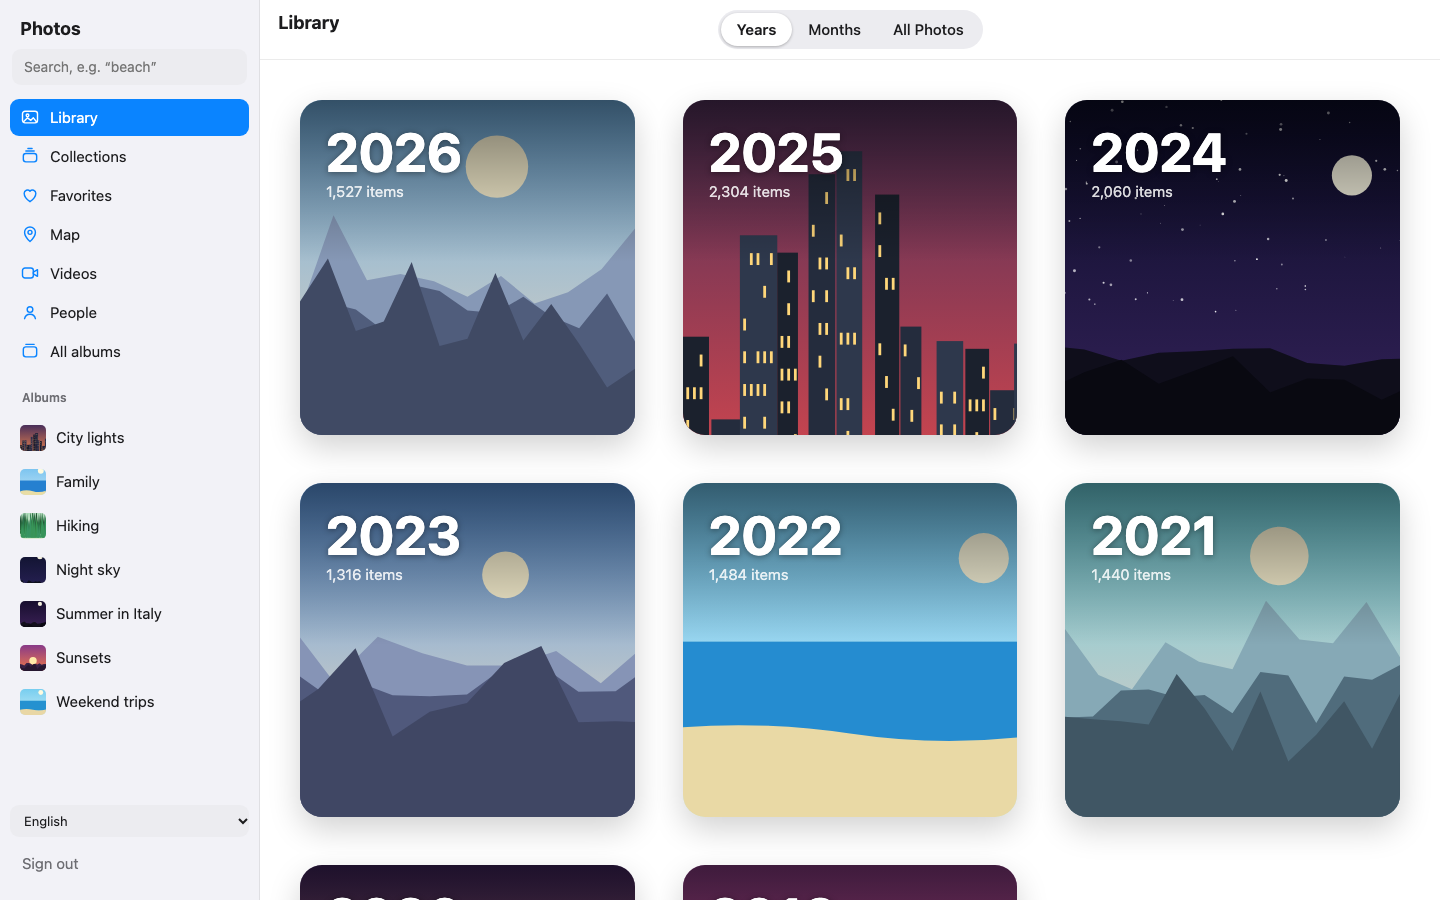
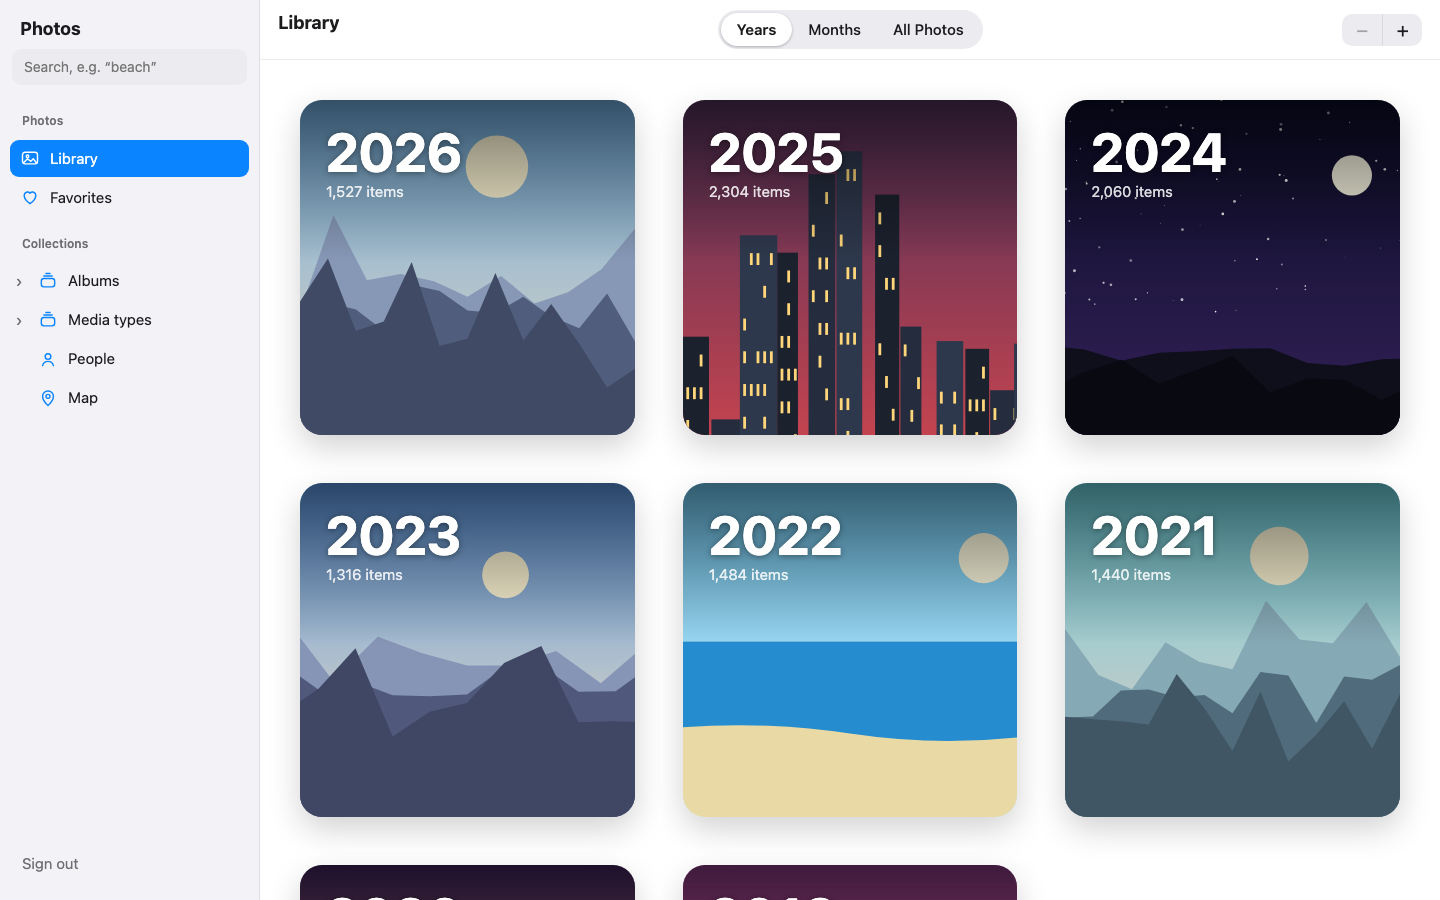
Apple-style navigation: grouped sidebar, floating mobile tab bar, pinch/zoom steps through years, months and all photos

Changed region(s): [[0.0, 0.0933, 0.1875, 0.3111], [0.0, 0.4356, 0.0938, 0.8089], [0.0312, 0.3422, 0.0938, 0.4044]]

diff --git a/public/style.css b/public/style.css
@@ -59,20 +59,25 @@ main{position:relative;overflow-y:auto;height:100%}
 #vPrev{left:16px}#vNext{right:16px}
 #vInfo{position:absolute;left:0;right:0;bottom:0;padding:12px 18px;color:#fff;background:linear-gradient(transparent,#000a);display:flex;justify-content:space-between;gap:12px;font-size:13px}
 #vInfo a{color:#fff}
+.tabbar,.search-btn{display:none}
 @media (max-width:720px){
-  .app{grid-template-columns:1fr;grid-template-rows:1fr auto}
-  aside{order:2;flex-direction:row;padding:6px;border:0;border-top:1px solid var(--line);overflow:hidden}
-  .side-top,.logout,.side-h,.side-albums{display:none}
-  aside{padding-bottom:calc(6px + env(safe-area-inset-bottom))}
-  #mainNav a,.search-btn{min-width:0;height:44px;display:flex;align-items:center;justify-content:center;border-radius:12px}
-  #mainNav .search-btn{display:flex;flex:1;background:none;border:0;color:var(--dim)}
-  .search-btn svg{width:24px;height:24px;fill:none;stroke:currentColor;stroke-width:1.8;stroke-linecap:round;stroke-linejoin:round}
-  #searchForm{display:none;position:fixed;left:12px;right:12px;bottom:calc(64px + env(safe-area-inset-bottom));z-index:30;padding:8px;border-radius:14px;background:var(--bar-bg);backdrop-filter:blur(20px);-webkit-backdrop-filter:blur(20px);box-shadow:0 4px 24px #0004}
-  aside.search-open #searchForm{display:block}
+  .app{grid-template-columns:1fr}
+  aside{position:static;padding:0;border:0;height:0;overflow:visible;background:none}
+  aside>:not(#searchForm){display:none!important}
+  #content{padding-bottom:calc(96px + env(safe-area-inset-bottom))}
+  main{touch-action:pan-x pan-y}
+  .tabbar{display:flex;flex-direction:row;position:fixed;z-index:20;left:16px;right:88px;bottom:calc(12px + env(safe-area-inset-bottom));height:62px;padding:5px;gap:4px;border-radius:32px;background:var(--bar-bg);backdrop-filter:blur(24px) saturate(1.6);-webkit-backdrop-filter:blur(24px) saturate(1.6);box-shadow:0 2px 20px #0003,inset 0 0 0 1px var(--line)}
+  .tabbar a{flex:1;display:flex;flex-direction:column;align-items:center;justify-content:center;gap:2px;border-radius:28px;color:var(--text);text-decoration:none;font-size:11px;font-weight:600}
+  .tabbar a svg{width:26px;height:26px;fill:none;stroke:currentColor;stroke-width:1.7;stroke-linecap:round;stroke-linejoin:round}
+  #tabbar a.active{background:var(--bg2);color:var(--accent)}
+  #tabbar a.active svg{stroke:var(--accent)}
+  .search-btn{display:flex;align-items:center;justify-content:center;position:fixed;z-index:20;right:16px;bottom:calc(12px + env(safe-area-inset-bottom));width:62px;height:62px;padding:0;border-radius:50%;background:var(--bar-bg);color:var(--text);backdrop-filter:blur(24px) saturate(1.6);-webkit-backdrop-filter:blur(24px) saturate(1.6);box-shadow:0 2px 20px #0003,inset 0 0 0 1px var(--line)}
+  .search-btn svg{width:28px;height:28px;fill:none;stroke:currentColor;stroke-width:1.8;stroke-linecap:round;stroke-linejoin:round}
+  #searchForm{display:none;position:fixed;left:16px;right:16px;bottom:calc(86px + env(safe-area-inset-bottom));z-index:30;padding:8px;border-radius:18px;background:var(--bar-bg);backdrop-filter:blur(20px);-webkit-backdrop-filter:blur(20px);box-shadow:0 4px 24px #0004}
+  aside.search-open #searchForm{display:block!important}
   #searchInput{font-size:16px}
-  #mainNav{flex-direction:row;width:100%}#mainNav a{flex:1;justify-content:center;font-size:0;gap:0}
   .topbar{grid-template-columns:1fr auto;padding:0 12px}.seg{grid-column:1/-1;grid-row:2;justify-self:center}.topbar{height:auto;min-height:var(--bar);padding-bottom:8px}
-  .zoom{display:none}
+  .viewer ~ .tabbar,body:has(#viewer:not(.hidden)) .tabbar,body:has(#viewer:not(.hidden)) .search-btn{display:none}
 }
 .overview{padding:0 0 120px}
 .ov-year{position:sticky;top:var(--bar);z-index:5;padding:10px 18px;font-weight:700;font-size:22px;background:var(--bar-bg);backdrop-filter:blur(20px);-webkit-backdrop-filter:blur(20px)}
@@ -132,7 +137,7 @@ main{position:relative;overflow-y:auto;height:100%}
 .v-panel dl{margin:14px 0 0;display:grid;grid-template-columns:auto 1fr;gap:6px 14px;font-size:14px}
 .v-panel dt{color:var(--dim)}.v-panel dd{margin:0;word-break:break-word}
 .v-panel a{color:var(--accent)}
-@media (max-width:720px){.selbar{bottom:70px}.tb-right .pill{padding:6px 12px}}
+@media (max-width:720px){.tb-right .pill{padding:6px 12px}}
 
 /* ---- Blurred placeholder (ThumbHash) ---- */
 .tile{background-size:cover;background-position:center}
@@ -183,10 +188,23 @@ main{position:relative;overflow-y:auto;height:100%}
 /* ---- Language picker ---- */
 .lang-select{background:var(--bg2);color:var(--text);border:0;border-radius:9px;padding:7px 10px;font:inherit;font-size:13px;width:100%}
 .logout{margin-top:auto}
-.search-btn{display:none}
 .login .lang-select{margin-top:6px}
 [dir="rtl"] .tb-right{justify-self:start}
 
 /* keep the viewer toolbar visible next to the open info panel */
 .viewer:has(#vPanel:not(.hidden)) .v-tools{right:calc(min(340px,100vw) + 16px)}
 .viewer:has(#vPanel:not(.hidden)) #vInfo{right:min(340px,100vw)}
+
+/* Sidebar groups (Apple Photos web style) */
+.side-h-link{display:block;text-decoration:none}
+.side-h-link.active{color:var(--accent)}
+.navrow{display:flex;align-items:center;gap:0}
+.navrow>a,.navrow .rowlabel{flex:1;min-width:0}
+.rowlabel{display:flex;gap:10px;align-items:center;padding:8px 10px;border-radius:9px;background:none;color:var(--text);text-align:left;font:inherit}
+.chev{width:18px;flex:none;background:none;color:var(--dim);font-size:16px;line-height:1;padding:0;transition:transform .15s}
+.chev[aria-expanded="true"]{transform:rotate(90deg)}
+.navrow:not(:has(.chev))>a{margin-left:18px}
+nav.sub{padding-left:18px}
+nav.sub.hidden{display:none}
+nav .rowlabel svg{width:20px;height:20px;flex:none;fill:none;stroke:var(--accent);stroke-width:1.7;stroke-linecap:round;stroke-linejoin:round}
+@media (max-width:720px){.selbar{bottom:calc(88px + env(safe-area-inset-bottom))}}

diff --git a/public/app.js b/public/app.js
@@ -393,7 +393,7 @@ function resetView() {
 }
 function syncControls() {
   document.querySelectorAll("#seg button").forEach((b) => b.classList.toggle("active", b.dataset.mode === state.mode));
-  $("#zOut").disabled = state.zoom <= 0; $("#zIn").disabled = state.zoom >= ZOOMS.length - 1;
+  $("#zOut").disabled = level() <= 0; $("#zIn").disabled = level() >= maxLevel();
 }
 function showFeed(filters, title, { back = false, seg = false, feedOpts, noDate = false, makeFeed } = {}) {
   resetView();
@@ -404,10 +404,18 @@ function showFeed(filters, title, { back = false, seg = false, feedOpts, noDate 
   state.feed = makeFeed ? makeFeed() : new Feed(filters, feedOpts);
   loadMore();
 }
+// Zoom steps. In the library they run through Years -> Months -> All Photos (small ... large);
+// everywhere else only through the grid sizes.
+function level() { return state.view === "library" ? (state.mode === "years" ? 0 : state.mode === "months" ? 1 : 2 + state.zoom) : state.zoom; }
+function maxLevel() { return state.view === "library" ? 1 + ZOOMS.length : ZOOMS.length - 1; }
 function zoom(d) {
-  const z = Math.min(ZOOMS.length - 1, Math.max(0, state.zoom + d));
-  if (z === state.zoom) return;
-  state.zoom = z; store.set("zoom2", z); syncControls(); gridRelayout();
+  const lib = state.view === "library", cur = level(), n = Math.min(maxLevel(), Math.max(0, cur + d));
+  if (n === cur) return;
+  if (!lib) { state.zoom = n; store.set("zoom2", n); syncControls(); gridRelayout(); return; }
+  const mode = n === 0 ? "years" : n === 1 ? "months" : "all", z = n >= 2 ? n - 2 : state.zoom;
+  const modeChanged = mode !== state.mode;
+  state.mode = mode; state.zoom = z; store.set("mode", mode); store.set("zoom2", z);
+  if (modeChanged) showLibrary(); else { syncControls(); gridRelayout(); }
 }
 $("#zOut").onclick = () => zoom(-1); $("#zIn").onclick = () => zoom(1);
 
@@ -495,7 +503,7 @@ function showLibrary(restore) {
     showFeed({ visibility: "timeline" }, tr("nav.library"), { seg: true, makeFeed: () => libraryFeed(null, { visibility: "timeline" }) }); state.view = "library";
   } else {
     resetView(); state.view = "library";
-    setHeader(tr("nav.library"), { seg: true }); syncControls();
+    setHeader(tr("nav.library"), { seg: true, zoom: true }); syncControls();
     showOverview(restore);
   }
 }
@@ -744,10 +752,23 @@ function showBBox(bbox) {
 // ---------- Routing ----------
 function markActive() {
   const [, name = "photos", id] = location.hash.split("/");
-  const main = { album: "", search: "", month: "photos", person: "people", bbox: "map", place: "collections", live: "collections" }[name] ?? name;
-  document.querySelectorAll("#mainNav a").forEach((a) => a.classList.toggle("active", a.dataset.route === main));
+  const main = { month: "photos", person: "people", bbox: "map", place: "collections" }[name] ?? name;
+  document.querySelectorAll("aside a[data-route]").forEach((a) => a.classList.toggle("active", a.dataset.route === main));
   document.querySelectorAll("#sideAlbums a").forEach((a) => a.classList.toggle("active", name === "album" && a.dataset.albumId === id));
+  const tab = ["photos", "month", "favorites", "search"].includes(name) ? "photos" : "collections";
+  document.querySelectorAll("#tabbar a").forEach((a) => a.classList.toggle("active", a.dataset.tab === tab));
+  if (name === "album") setGroup("albums", true);
+  if (name === "videos" || name === "live") setGroup("media", true);
 }
+// Collapsible sidebar groups (Albums, Media types), remembered per browser.
+function setGroup(key, open) {
+  const sub = key === "albums" ? $("#sideAlbums") : $("#mediaNav");
+  sub.classList.toggle("hidden", !open);
+  document.querySelector(`.chev[data-toggle="${key}"]`).setAttribute("aria-expanded", String(open));
+  store.set("group." + key, open);
+}
+document.querySelectorAll("[data-toggle]").forEach((b) => b.addEventListener("click", () => setGroup(b.dataset.toggle, b.parentElement.querySelector(".chev").getAttribute("aria-expanded") !== "true")));
+["albums", "media"].forEach((k) => setGroup(k, store.get("group." + k, false)));
 let lastName = "";
 function route() {
   const [, name = "photos", id, title] = location.hash.split("/");
@@ -785,6 +806,26 @@ $("#searchForm").addEventListener("submit", (e) => {
   e.preventDefault(); const q = $("#searchInput").value.trim();
   if (q) location.hash = "#/search/" + encodeURIComponent(q);
 });
+
+// Pinch (touch) or ctrl+wheel (trackpad pinch) on the library changes the zoom step.
+{
+  let d0 = 0, busy = false;
+  const dist = (t) => Math.hypot(t[0].clientX - t[1].clientX, t[0].clientY - t[1].clientY);
+  const m = $("#main");
+  m.addEventListener("touchstart", (e) => { if (e.touches.length === 2) d0 = dist(e.touches); }, { passive: true });
+  m.addEventListener("touchmove", (e) => {
+    if (e.touches.length !== 2 || !d0 || !$("#viewer").classList.contains("hidden")) return;
+    const r = dist(e.touches) / d0;
+    if (r > 1.3) { zoom(1); d0 = dist(e.touches); } else if (r < 0.77) { zoom(-1); d0 = dist(e.touches); }
+  }, { passive: true });
+  m.addEventListener("touchend", () => { d0 = 0; }, { passive: true });
+  m.addEventListener("wheel", (e) => {
+    if (!e.ctrlKey || state.view === "map" || !$("#zoom") || $("#zoom").classList.contains("hidden")) return;
+    e.preventDefault();
+    if (busy) return; busy = true; setTimeout(() => (busy = false), 350);
+    zoom(e.deltaY < 0 ? 1 : -1);
+  }, { passive: false });
+}
 
 // ---------- Viewer ----------
 let vIndex = -1;

diff --git a/public/index.html b/public/index.html
@@ -31,18 +31,23 @@
     <form id="searchForm" class="search" role="search">
       <input id="searchInput" type="search" data-i18n-placeholder="search.placeholder" data-i18n-aria-label="search.aria" placeholder="Search" autocomplete="off">
     </form>
+    <div class="side-h" data-i18n="nav.group.photos">Photos</div>
     <nav id="mainNav">
       <a href="#/photos" data-route="photos"><svg viewBox="0 0 24 24"><rect x="3" y="5" width="18" height="14" rx="3"/><circle cx="9" cy="10" r="1.6"/><path d="M4 18l5-5 4 3 3-3 4 5"/></svg><span data-i18n="nav.library">Library</span></a>
-      <a href="#/collections" data-route="collections"><svg viewBox="0 0 24 24"><rect x="4" y="9" width="16" height="10" rx="3"/><path d="M7 6h10M9.5 3h5"/></svg><span data-i18n="nav.collections">Collections</span></a>
       <a href="#/favorites" data-route="favorites"><svg viewBox="0 0 24 24"><path d="M12 20s-7-4.6-7-10a4 4 0 017-2.6A4 4 0 0119 10c0 5.4-7 10-7 10z"/></svg><span data-i18n="nav.favorites">Favorites</span></a>
-      <a href="#/map" data-route="map"><svg viewBox="0 0 24 24"><path d="M12 21s-6.5-5.6-6.5-11a6.5 6.5 0 0113 0c0 5.4-6.5 11-6.5 11z"/><circle cx="12" cy="10" r="2.4"/></svg><span data-i18n="nav.map">Map</span></a>
-      <a href="#/videos" data-route="videos"><svg viewBox="0 0 24 24"><rect x="3" y="6" width="13" height="12" rx="3"/><path d="M16 11l5-3v8l-5-3z"/></svg><span data-i18n="nav.videos">Videos</span></a>
-      <a href="#/people" data-route="people"><svg viewBox="0 0 24 24"><circle cx="12" cy="9" r="3.4"/><path d="M5.5 20c.8-3.6 3.2-5.2 6.5-5.2s5.7 1.6 6.5 5.2"/></svg><span data-i18n="nav.people">People</span></a>
-      <button id="searchBtn" class="search-btn" type="button" data-i18n-aria-label="search.aria" aria-label="Search"><svg viewBox="0 0 24 24"><circle cx="11" cy="11" r="6"/><path d="M20 20l-4.2-4.2"/></svg></button>
-      <a href="#/albums" data-route="albums"><svg viewBox="0 0 24 24"><rect x="4" y="7" width="16" height="12" rx="3"/><path d="M7 4h10"/></svg><span data-i18n="nav.allAlbums">All albums</span></a>
     </nav>
-    <div class="side-h" data-i18n="nav.albums">Albums</div>
-    <nav id="sideAlbums" class="side-albums"></nav>
+    <a class="side-h side-h-link" href="#/collections" data-route="collections" data-i18n="nav.collections">Collections</a>
+    <nav id="collNav">
+      <div class="navrow"><button class="chev" data-toggle="albums" aria-expanded="false" aria-label="Toggle">›</button><a href="#/albums" data-route="albums"><svg viewBox="0 0 24 24"><rect x="4" y="9" width="16" height="10" rx="3"/><path d="M7 6h10M9.5 3h5"/></svg><span data-i18n="nav.albums">Albums</span></a></div>
+      <nav id="sideAlbums" class="side-albums sub hidden"></nav>
+      <div class="navrow"><button class="chev" data-toggle="media" aria-expanded="false" aria-label="Toggle">›</button><button class="rowlabel" data-toggle="media"><svg viewBox="0 0 24 24"><rect x="4" y="9" width="16" height="10" rx="3"/><path d="M7 6h10M9.5 3h5"/></svg><span data-i18n="collections.mediaTypes">Media types</span></button></div>
+      <nav id="mediaNav" class="sub hidden">
+        <a href="#/videos" data-route="videos"><svg viewBox="0 0 24 24"><rect x="3" y="6" width="13" height="12" rx="3"/><path d="M16 11l5-3v8l-5-3z"/></svg><span data-i18n="nav.videos">Videos</span></a>
+        <a href="#/live" data-route="live"><svg viewBox="0 0 24 24"><circle cx="12" cy="12" r="3"/><circle cx="12" cy="12" r="7.5"/></svg><span data-i18n="nav.live">Live Photos</span></a>
+      </nav>
+      <div class="navrow"><a href="#/people" data-route="people"><svg viewBox="0 0 24 24"><circle cx="12" cy="9" r="3.4"/><path d="M5.5 20c.8-3.6 3.2-5.2 6.5-5.2s5.7 1.6 6.5 5.2"/></svg><span data-i18n="nav.people">People</span></a></div>
+      <div class="navrow"><a href="#/map" data-route="map"><svg viewBox="0 0 24 24"><path d="M12 21s-6.5-5.6-6.5-11a6.5 6.5 0 0113 0c0 5.4-6.5 11-6.5 11z"/><circle cx="12" cy="10" r="2.4"/></svg><span data-i18n="nav.map">Map</span></a></div>
+    </nav>
     <button id="logout" class="logout" data-i18n="nav.logout">Sign out</button>
   </aside>
   <main id="main">
@@ -68,6 +73,12 @@
     <div id="empty" class="empty hidden"><div class="empty-icon">🖼</div><h2 data-i18n="empty.photos">No photos</h2><button id="retry" class="pill hidden" data-i18n="empty.retry">Try again</button></div>
   </main>
 </div>
+
+<nav id="tabbar" class="tabbar" aria-label="Main">
+  <a href="#/photos" data-tab="photos"><svg viewBox="0 0 24 24"><rect x="3" y="5" width="18" height="14" rx="3"/><circle cx="9" cy="10" r="1.6"/><path d="M4 18l5-5 4 3 3-3 4 5"/></svg><span data-i18n="nav.library">Library</span></a>
+  <a href="#/collections" data-tab="collections"><svg viewBox="0 0 24 24"><rect x="4" y="9" width="16" height="10" rx="3"/><path d="M7 6h10M9.5 3h5"/></svg><span data-i18n="nav.collections">Collections</span></a>
+</nav>
+<button id="searchBtn" class="search-btn" type="button" data-i18n-aria-label="search.aria" aria-label="Search"><svg viewBox="0 0 24 24"><circle cx="11" cy="11" r="6"/><path d="M20 20l-4.2-4.2"/></svg></button>
 
 <div id="selbar" class="selbar hidden">
   <span id="selCount"></span>

diff --git a/public/sw.js b/public/sw.js
@@ -1,4 +1,4 @@
-const SHELL = "fotos-shell-v6";
+const SHELL = "fotos-shell-v7";
 self.addEventListener("install", (e) => {
   e.waitUntil(caches.open(SHELL).then((c) => c.addAll(["/", "/style.css", "/app.js", "/layout.js", "/thumbhash.js", "/i18n.js", "/icon.svg", "/icon-180.png"])));
   self.skipWaiting();
